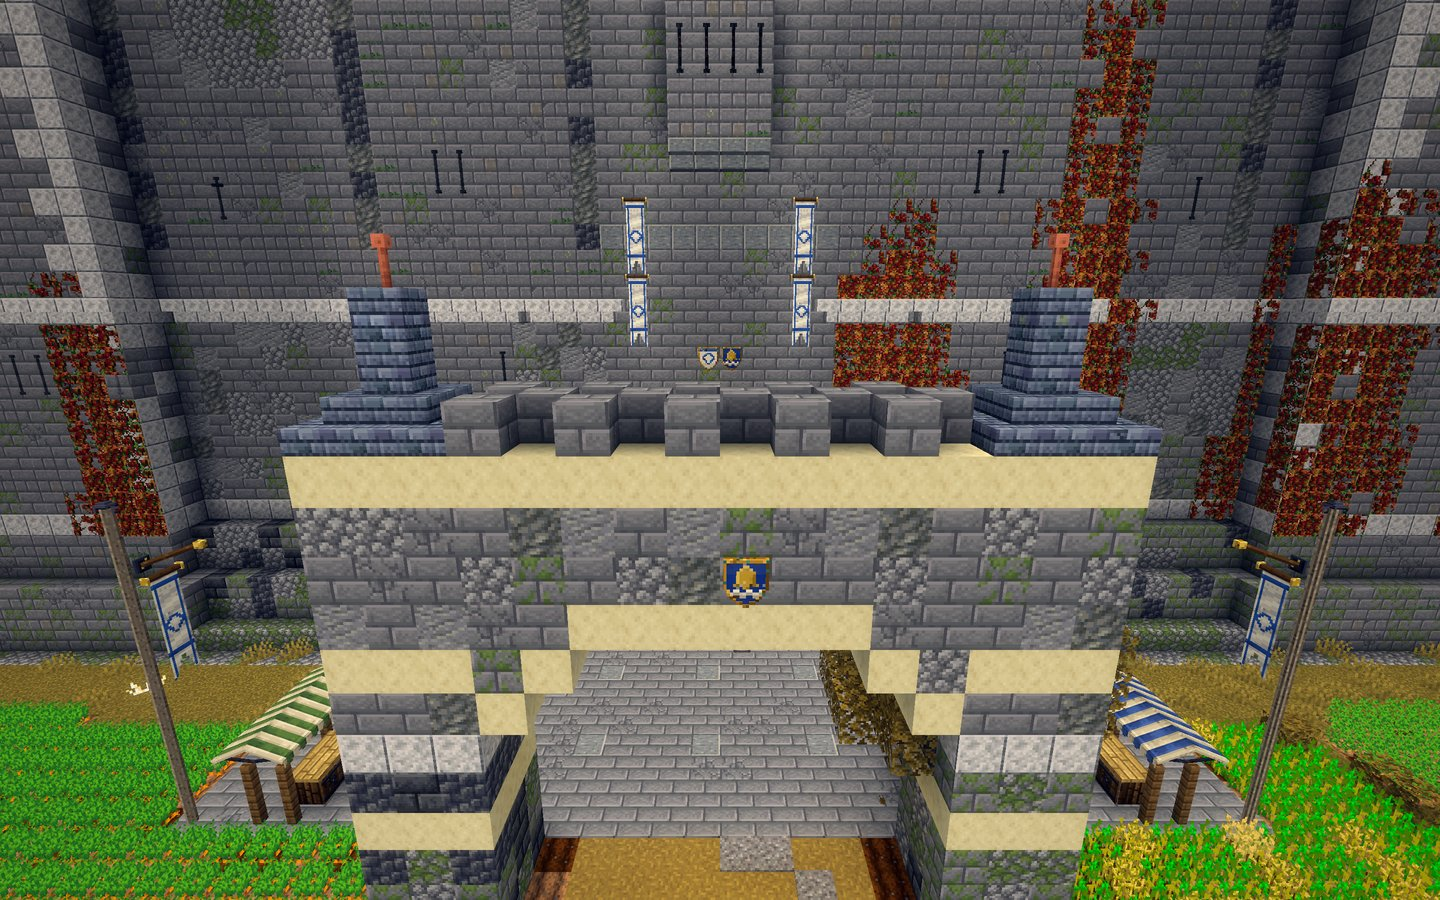
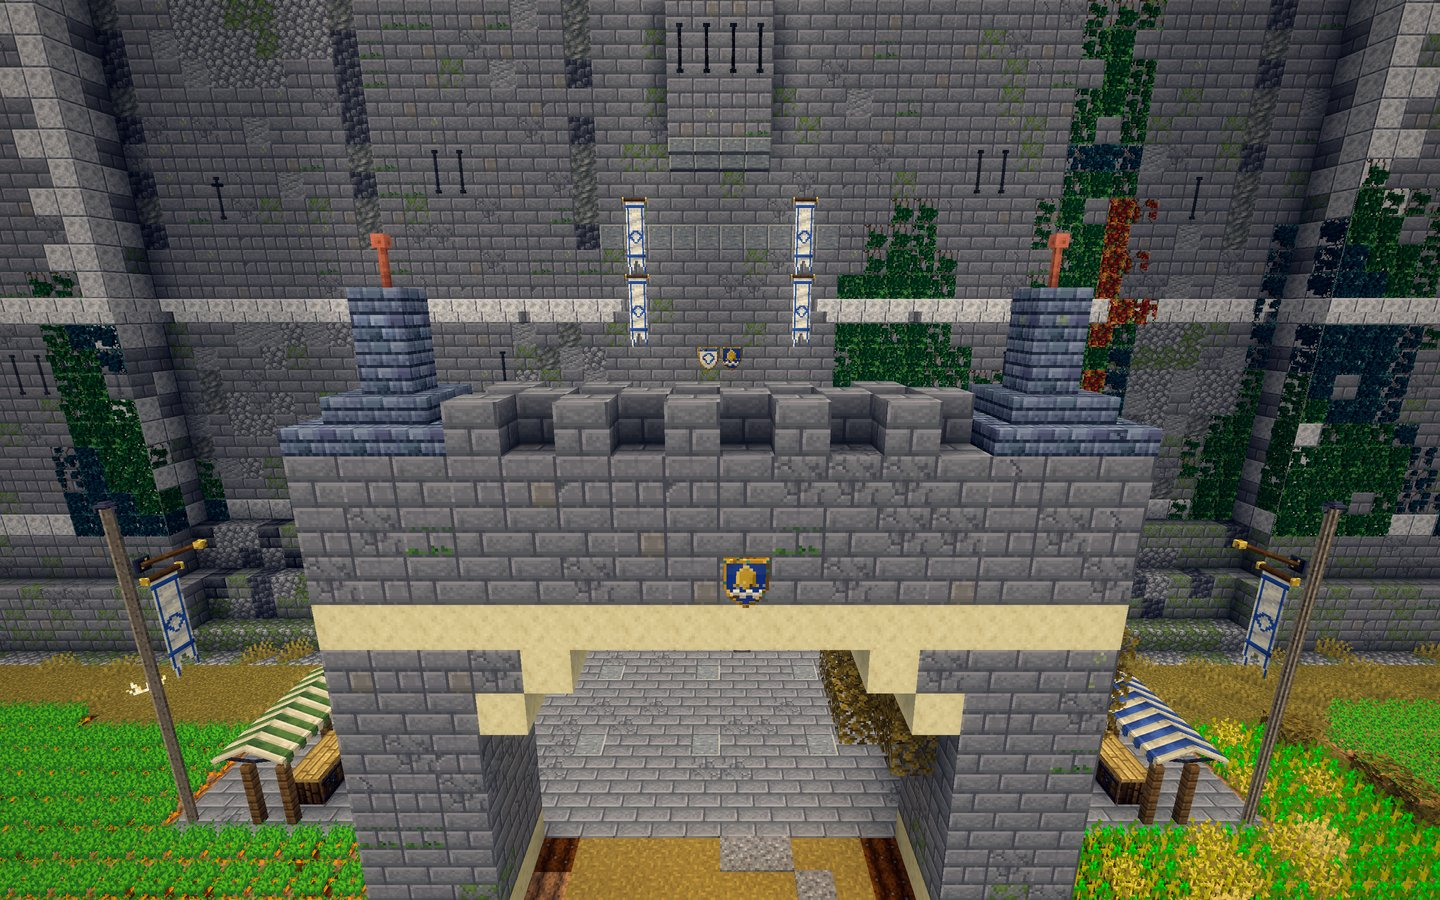
Carillon M4 Walls: the fourth pass's shots (the Works in mud brick, the barbican's cream to plinth, course and voussoirs, the ivy mostly green) and M4-walls.md's fourth pass

diff --git a/docs/carillon/milestones/M4-walls.md b/docs/carillon/milestones/M4-walls.md
@@ -107,6 +107,15 @@ No block entities, no loot.
 - **The Watch on his round:** `/awaken citizens show wall_watch[_front|_side]` stands on the walk near a night watchman.
   The tour catches him (walls_watch_round*: lantern, halberd, calling the hour, a dog at his heels).
 
+## Fourth pass (three targeted fixes, one tour)
+- **The Works' dressing in mud brick** instead of red brick: courses, caps, quoins and the stairs on the ledges
+  (`runner_ledges` gains mud brick stairs). The only red left is the Works towers' whole brick bands, every sixth row.
+- **The barbican's cream kept to a plinth, one string course and the arch's voussoirs.** The rest of each pier is
+  weathered stone brick, mossy at the foot.
+- **Ivy mostly deep green.** Darker drifts come from noise, with a little autumn (about one cell in seven). The chance is
+  higher on the inner face, the north faces and the Garden and Quay stretches, and it grows thick at the foot.
+- Shots (tour 7, Vulkan): `walls_out_s`, `walls_gate_yard`, `walls_watergate`.
+
 ## Tests (GameTests, one per mechanism; `-Ptests=city_wall_`)
 - `city_wall_grid`: every hold on the wall's faces below the walk sits in an odd row (9,841 holds), the outer courses
   (896 cells) and the inner (529) are whole along every clear stretch, and 23 of 24 sides have a climb line from the
@@ -136,12 +145,15 @@ Three light tours of `tools/autopilot/carillon-m4walls.txt` (B3a's world, seed a
 ## Where it still falls short
 - Close under the inner face of a slanted side, the panels' heads, the corbel table and the band step with the raster and
   read heavy.
-- The Works' stretch in brick dressings is the busiest face of the ring: red courses and bands read strongly against the
-  grey; it's deliberate (the industrial district) but could take a lighter hand.
+- On the Works' slanted sides the mud brick still traces the buttresses' stepping and the corbel steps. It is calmer than
+  red, but it still reads as lines. The next step would be to dress only the two string courses there and leave the
+  caps and corbels in stone.
+- The ivy's "dark" tone reads blue-black at a distance. Close up, its clumps keep rectangular edges where a patch ends at
+  a course.
 
 ## CI
 GameTests on every push of `carillon/m4-walls`: 40217807842 (first pass) green, 40221579843 (the Watch's round, second
-pass) green, 40223015764 (light budget, merged carillon/main) see the hand-back.
+pass) green, 40223015764 (light budget), 40229252280 (third pass), 40230869266 (fourth pass, d0b836d1): all green.
 
 ## Decisions (SPEC §16.2, "Decided in M4 Walls")
 The cross-section and its rows, the rhythm in face cells, the roofed sides, the climb lines, the towers by district, gate
